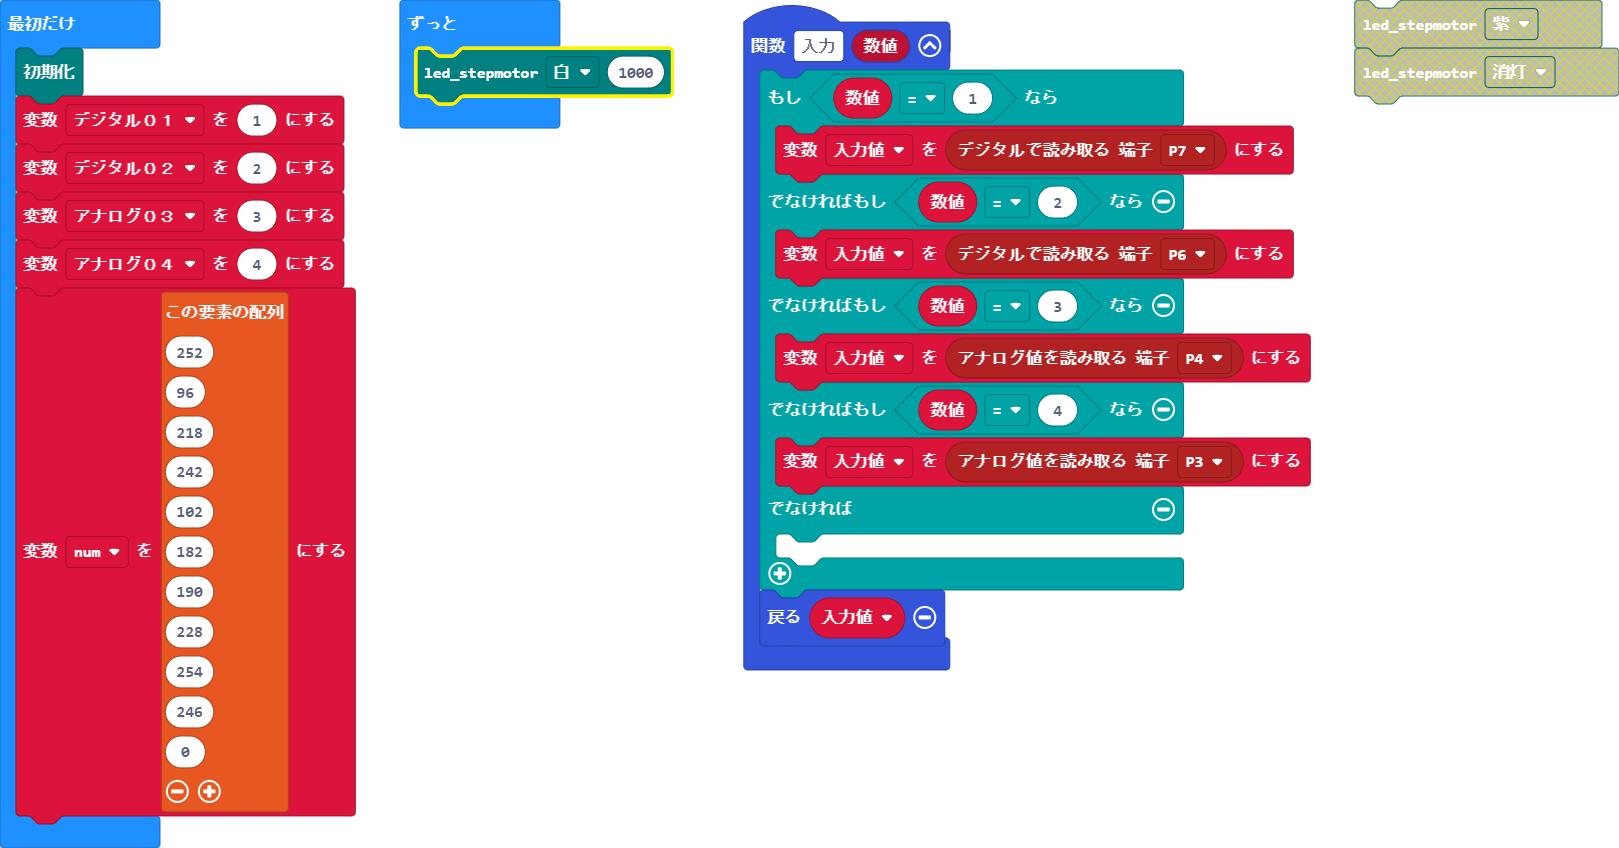
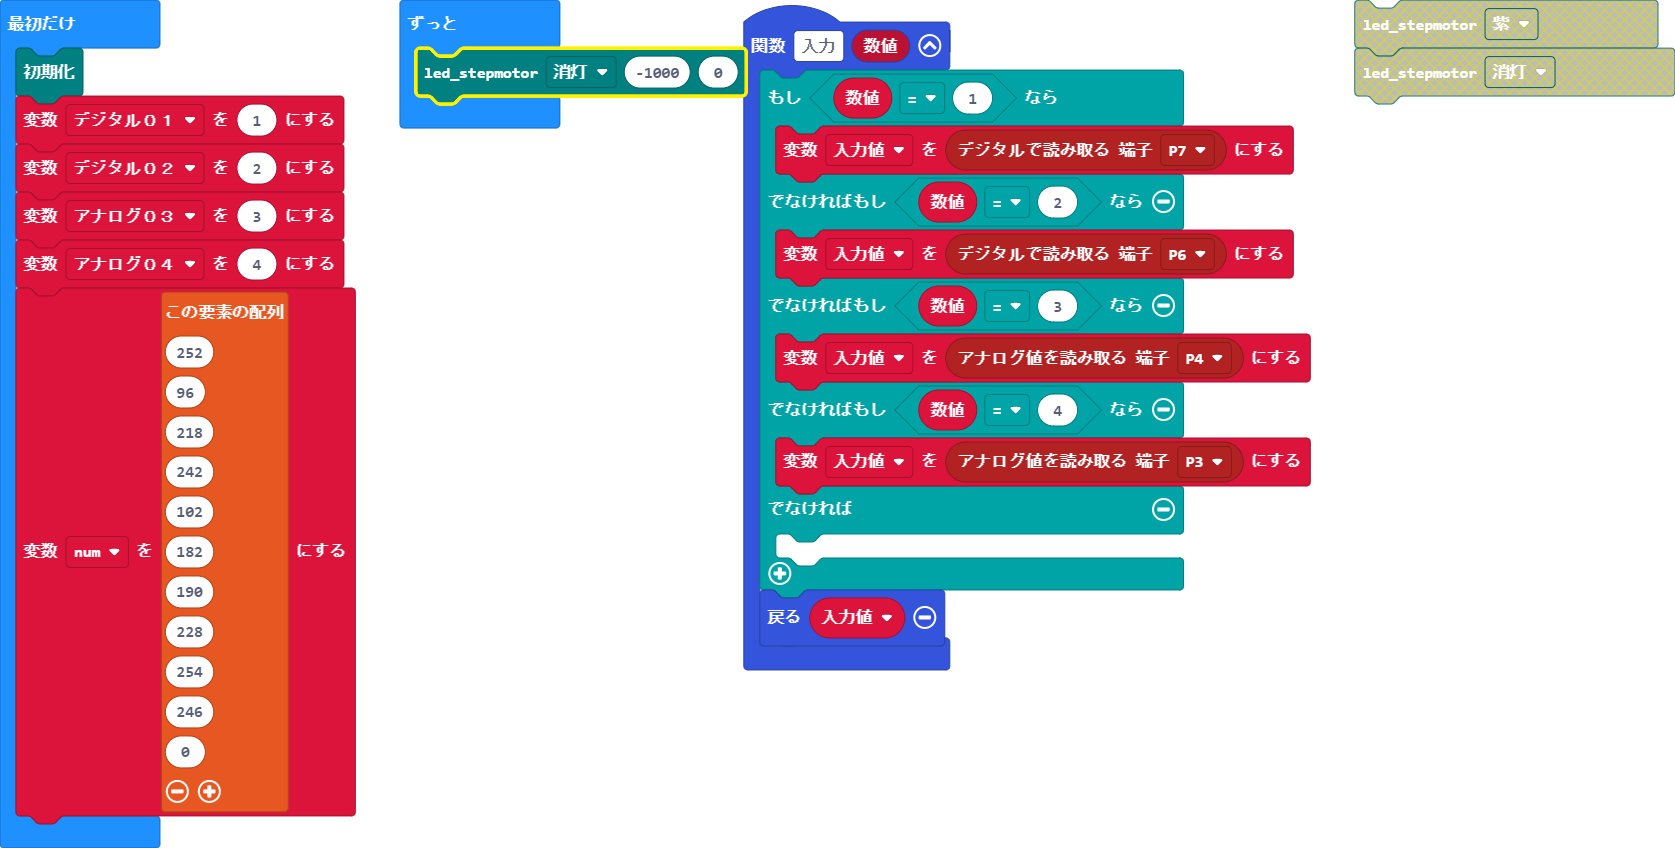
ステッピングモーターの関数途中

diff --git a/custom.ts b/custom.ts
@@ -222,7 +222,7 @@ namespace custom {
         pins.digitalWritePin(DigitalPin.P15, 1)
     }
     //% block
-    export function led_stepmotor(c: color_type, s: number): void {
+    export function led_stepmotor(c: color_type, s: number,deg:number): void {
 //  export function led_stepmotor(c: color_type, s: step_speed, d: step_dir): void {
         //フルカラーＬＥＤ
         let FullLED_Value
@@ -254,14 +254,30 @@ namespace custom {
         }
         //ステッピングモーター
         let value
-        if (s > 0) {
-            Step = 128           
+        let n
+
+        if (deg > 0) {
+            Step = 128
+            n = deg / 1.25
+            if(s<0){
+                s=-s
+            }
+        } else if(deg < 0){
+            Step = 16
+            n = -deg / 1.25
+            if (s > 0) {
+                s = -s
+            }
         }else{
-             Step = 16
+            if (s > 0) {
+                Step = 128
+            } else {
+                Step = 16
+            }
+            n=4
         }
- 
         let i = 1
-        for (let j = 0; j < 4; j++) {
+        for (let j = 0; j < n; j++) {
             if(j == 1){
 //                FullLED_Value = 0
             }

diff --git a/main.ts b/main.ts
@@ -32,5 +32,5 @@ let num = [
 0
 ]
 basic.forever(function () {
-    custom.led_stepmotor(color_type.white, 1000)
+    custom.led_stepmotor(color_type.black, -1000, 0)
 })
